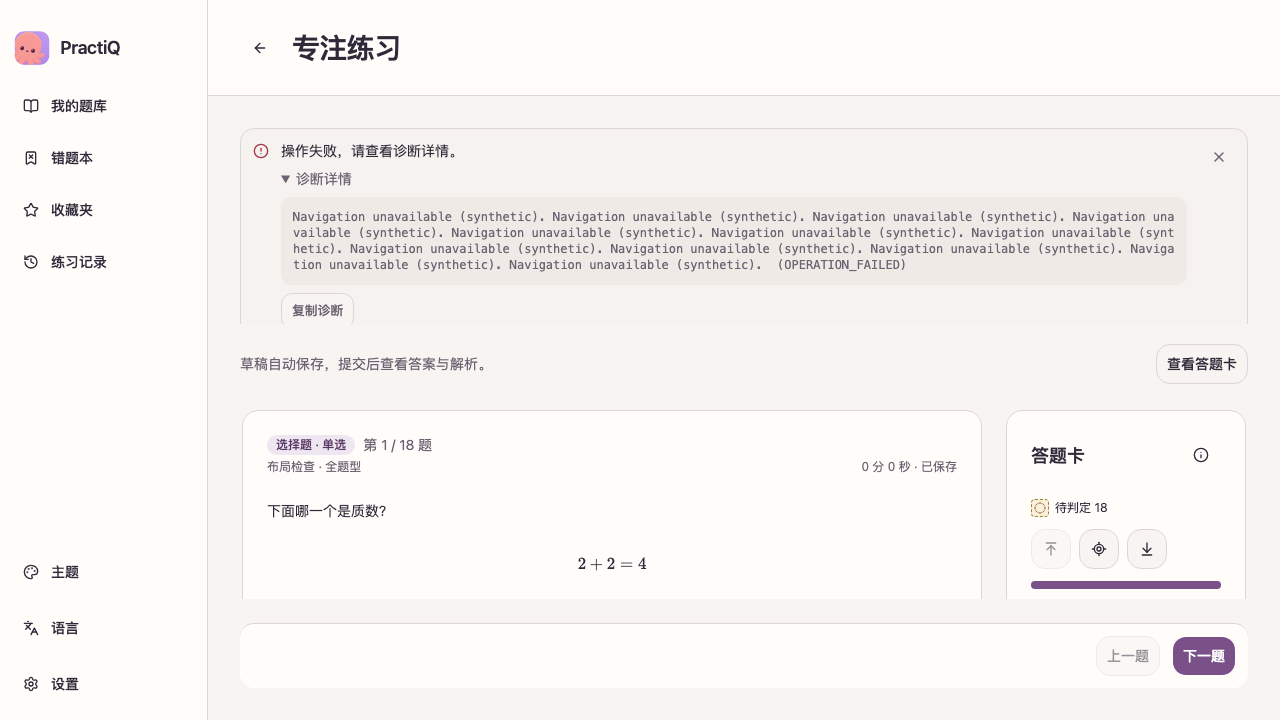
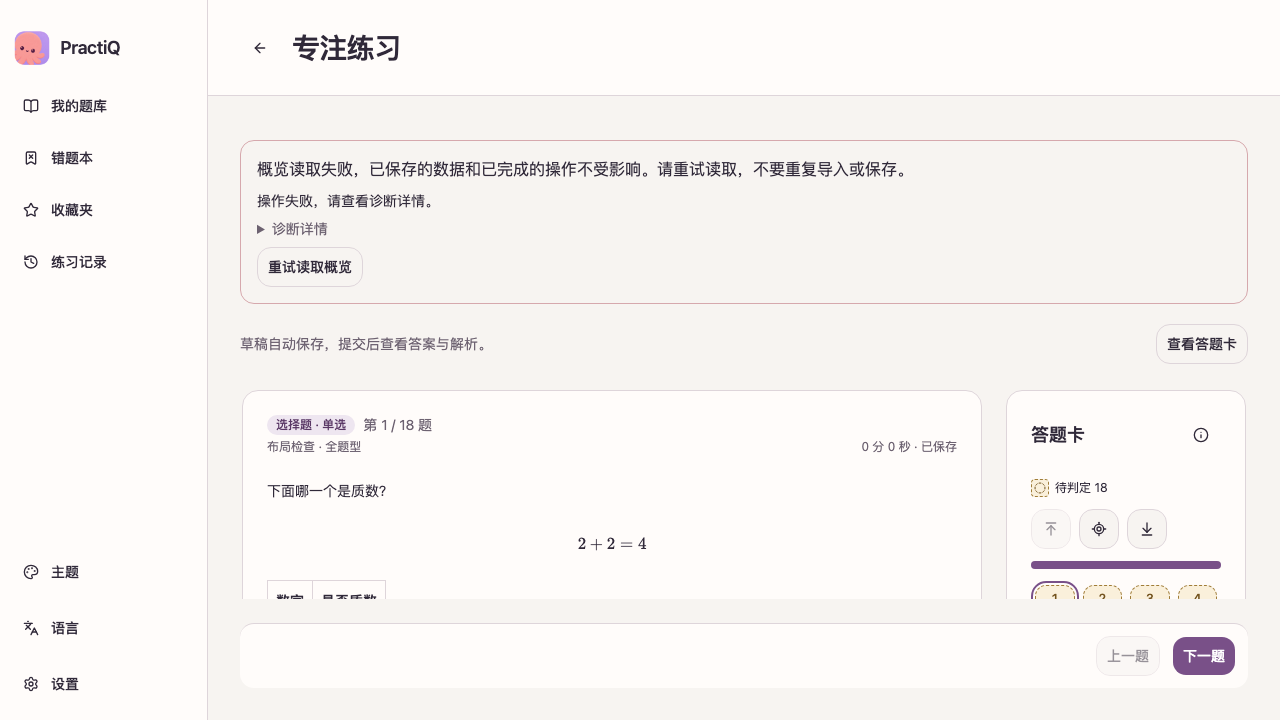
docs(ui): Refresh combined error recovery evidence
Keep the practice footer reachable when overview and action failures coexist, including expanded diagnostics on narrow and landscape screens.

diff --git a/docs/evidence/2026-10-21-pr334-follow-up/README.md b/docs/evidence/2026-10-21-pr334-follow-up/README.md
@@ -8,7 +8,7 @@ practice error-recovery fix added after review.
 
 - Practice notices now take space from a flex workspace rather than pushing a
   full-height session below the clipped viewport. Expanded diagnostics scroll in
-  a bounded notice; the footer and remaining question scroller stay reachable.
+  a bounded notice group; the footer and remaining question scroller stay reachable.
 - Ordering item IDs fall back to their zero-based positions. Matching IDs use
   zero-based positions independently within each side, matching
   `answer_references_missing` in the server contract. Explicit IDs still win.
@@ -65,3 +65,14 @@ Python 3.14.7 interpreter. Both Python audit sets report no known vulnerabilitie
 Rust retains its six existing allowed warnings, with no audit configuration or
 threshold changes. All five supported native dependency graphs pass the existing
 GLib reachability guard. Native Rust tests and new-head CI continue separately.
+
+
+The recovery matrix also retains a failing overview read while navigation fails.
+Before grouping notices under one shared height cap, two narrow-screen cases
+still clipped the footer (360x640 and 667x375). All practice notices now share one
+bounded scroller, so their combined height leaves space for the practice session.
+
+The combined-notice fix passed the 24-case layout matrix and all three recovery
+cases, including keyboard access to the overview retry action. App types, lint,
+460 tests (3 existing skips) and production build passed again. Follow-up images
+and their metadata now reflect this combined-notice state.
